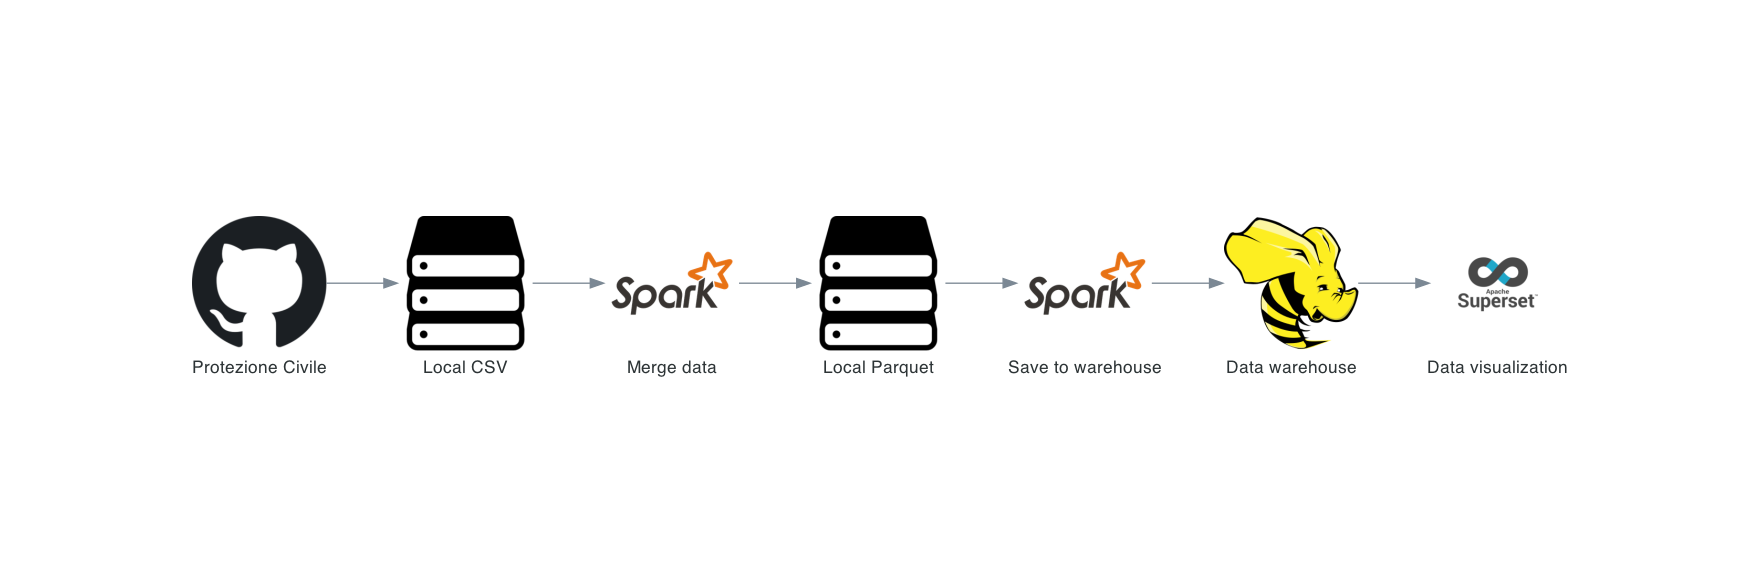
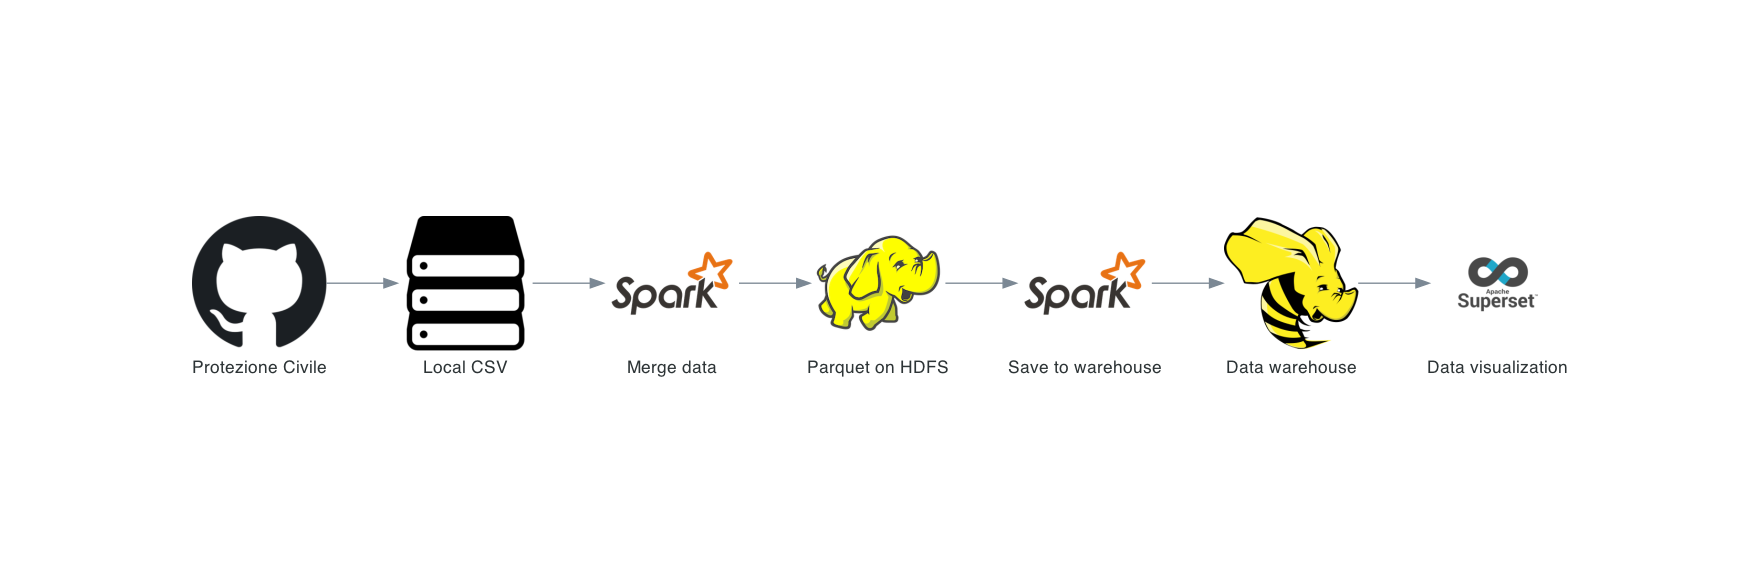
Lake to hadoop (#4)
* Saved file to HDFS

* Updated docs.

Changed region(s): [[0.461, 0.3604, 0.5532, 0.6608]]

diff --git a/spark/app/merge_data.py b/spark/app/merge_data.py
@@ -31,7 +31,9 @@ df = df.withColumn("collection_id",F.md5(F.concat(F.col("collection_date"),F.col
 
 df = df.select("collection_id","new_positive_cases","collection_date","country_cod")
 
-df.write.mode('overwrite').partitionBy("country_cod").parquet(f"/usr/share/covid_data/pq/{execution_date.strftime('%Y')}/{execution_date.strftime('%m')}/{execution_date.strftime('%d')}/cases_{execution_date.strftime('%Y%m%d')}.parquet")
+# df.write.mode('overwrite').partitionBy("country_cod").parquet(f"/usr/share/covid_data/pq/{execution_date.strftime('%Y')}/{execution_date.strftime('%m')}/{execution_date.strftime('%d')}/cases_{execution_date.strftime('%Y%m%d')}.parquet")
+
+df.write.mode('overwrite').partitionBy("country_cod").parquet(f"hdfs://namenode:8020/covid_data/pq/{execution_date.strftime('%Y')}/{execution_date.strftime('%m')}/{execution_date.strftime('%d')}/cases_{execution_date.strftime('%Y%m%d')}.parquet")
 
 
 

diff --git a/utils/graph.py b/utils/graph.py
@@ -1,12 +1,12 @@
 from diagrams import Diagram
 from diagrams.onprem.vcs import Github
 from diagrams.generic.storage import Storage
-from diagrams.onprem.analytics import Spark, Hive, Superset
+from diagrams.onprem.analytics import Spark, Hive, Superset, Hadoop
 
 graph_attr = {
     "label": ""
 }
 
 with Diagram("Pipeline", show=False, graph_attr=graph_attr):
-    Github("Protezione Civile") >> Storage("Local CSV") >> Spark("Merge data") >> Storage("Local Parquet") >> Spark("Save to warehouse") >> Hive("Data warehouse") >> Superset("Data visualization")
+    Github("Protezione Civile") >> Storage("Local CSV") >> Spark("Merge data") >> Hadoop("Parquet on HDFS") >> Spark("Save to warehouse") >> Hive("Data warehouse") >> Superset("Data visualization")
 

diff --git a/spark/app/save_to_warehouse.py b/spark/app/save_to_warehouse.py
@@ -19,7 +19,7 @@ spark = SparkSession \
     # TO DO: configure DB covid_data
 
 df = spark.read \
-    .parquet(f"/usr/share/covid_data/pq/{execution_date.strftime('%Y')}/{execution_date.strftime('%m')}/{execution_date.strftime('%d')}/cases_{execution_date.strftime('%Y%m%d')}.parquet")
+    .parquet(f"hdfs://namenode:8020/covid_data/pq/{execution_date.strftime('%Y')}/{execution_date.strftime('%m')}/{execution_date.strftime('%d')}/cases_{execution_date.strftime('%Y%m%d')}.parquet")
 
 
 

diff --git a/README.md b/README.md
@@ -56,7 +56,7 @@ Raw folder
             |
             └-- countrycode_cases_date.csv  
 ```
-The data is then read from the month folders and grouped into daily parquet files, partitioned by country code and stored in the pq folder, with the following folder structure.
+The data is then read from the daily folders and grouped into daily parquet files, partitioned by country code and stored in HDFS, with the following folder structure.
 ```
 Pq folder
 |    
@@ -68,11 +68,12 @@ Pq folder
             |    
             └-- cases_date.parquet
 ```
-One could argue that with such a dataset this step is useless, and would probably be right. However, keeping in mind the scope of the project, this step effectively emulates the loading of the data in a data lake, storing it efficiently for further queries.
 
-As of right now the maximum granularity is chosen, in order to easily reload onde day's data when needed. This is done becuase the same pipeline could be adapted to different datasets with few modifcations (e.g.: retail transactions). For the current exampole, as the data is very limited, and would be very limited even if all the countries were to be included, the convenience gain is minimal, but still I prefer this kind of design.
+The maximum granularity is chosen, in order to easily reload onde day's data when needed. This is done becuase the same pipeline could be adapted to different datasets with few modifcations (e.g.: retail transactions). For the current example, as the data is very limited, and would be very limited even if all the countries were to be included, the convenience gain is minimal, but still I prefer this kind of design.
 
 This folder structure will be kept even for future data (for example: vaccination).
+
+As of right now there data comes only from one country, but the pipeline is designed with the idea that it could be upgraded to extract data from other countries as well.
 
 ### Data warehousing
 In order to support different analytical tasks and SQL-like queries, raw data is stored inside Hive.
